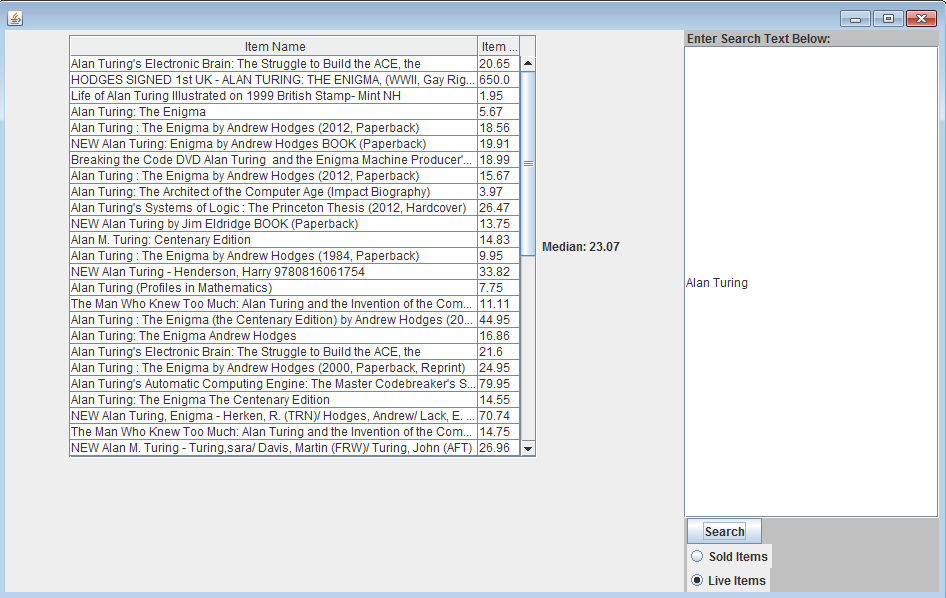
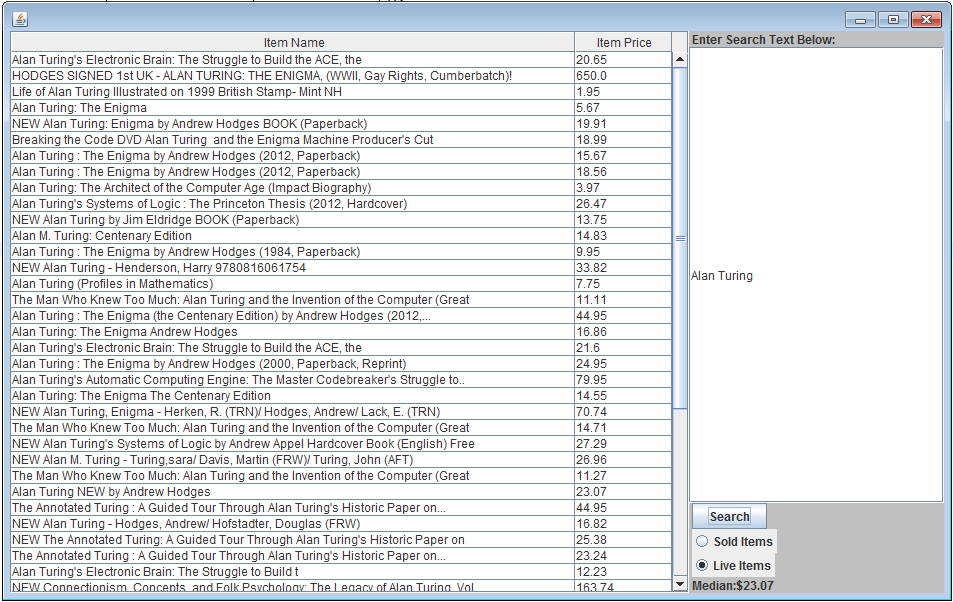
Update MainView
-Remove mainPanel
-Add scrollPane to JFrame to make the table match the size of the screen
-Add "$" to medianValueLabel
-Update screenshot

diff --git a/src/MainView.java b/src/MainView.java
@@ -25,7 +25,7 @@ public class MainView extends JFrame {
 
 	JTextField searchField;
 	JTable table;
-	JLabel medianValueLabel = new JLabel("Median: 0");
+	JLabel medianValueLabel = new JLabel("Median:$0");
 
 	private Controller controller;
 
@@ -65,20 +65,19 @@ public class MainView extends JFrame {
 
 		queryPanel.add(historyRadioButton);
 		queryPanel.add(liveRadioButton);
-
+		queryPanel.add(medianValueLabel);
+		
 		// Create table for results
-		JPanel mainPanel = new JPanel();
 		String[] columnNames = { "Item Name", "Item Price" };
 		table = new JTable();
+
 		DefaultTableModel model = new DefaultTableModel();
 		table.setModel(model);
 		model.setColumnIdentifiers(columnNames);
 
 		JScrollPane scrollPane = new JScrollPane(table);
-		mainPanel.add(scrollPane);
-		mainPanel.add(medianValueLabel);
 
-		this.getContentPane().add(BorderLayout.CENTER, mainPanel);
+		this.getContentPane().add(BorderLayout.CENTER, scrollPane);
 		this.getContentPane().add(BorderLayout.EAST, queryPanel);
 		this.setSize(950, 600);
 		this.setVisible(true);
@@ -130,7 +129,7 @@ public class MainView extends JFrame {
 		priceArray = list.toArray(priceArray);
 		java.util.Arrays.sort(priceArray);
 		if (priceArray.length % 2 == 0) {
-			medianValueLabel.setText("Median: "
+			medianValueLabel.setText("Median:$"
 					+ priceArray[(priceArray.length - 1) / 2]);
 		} else {
 			medianValueLabel
